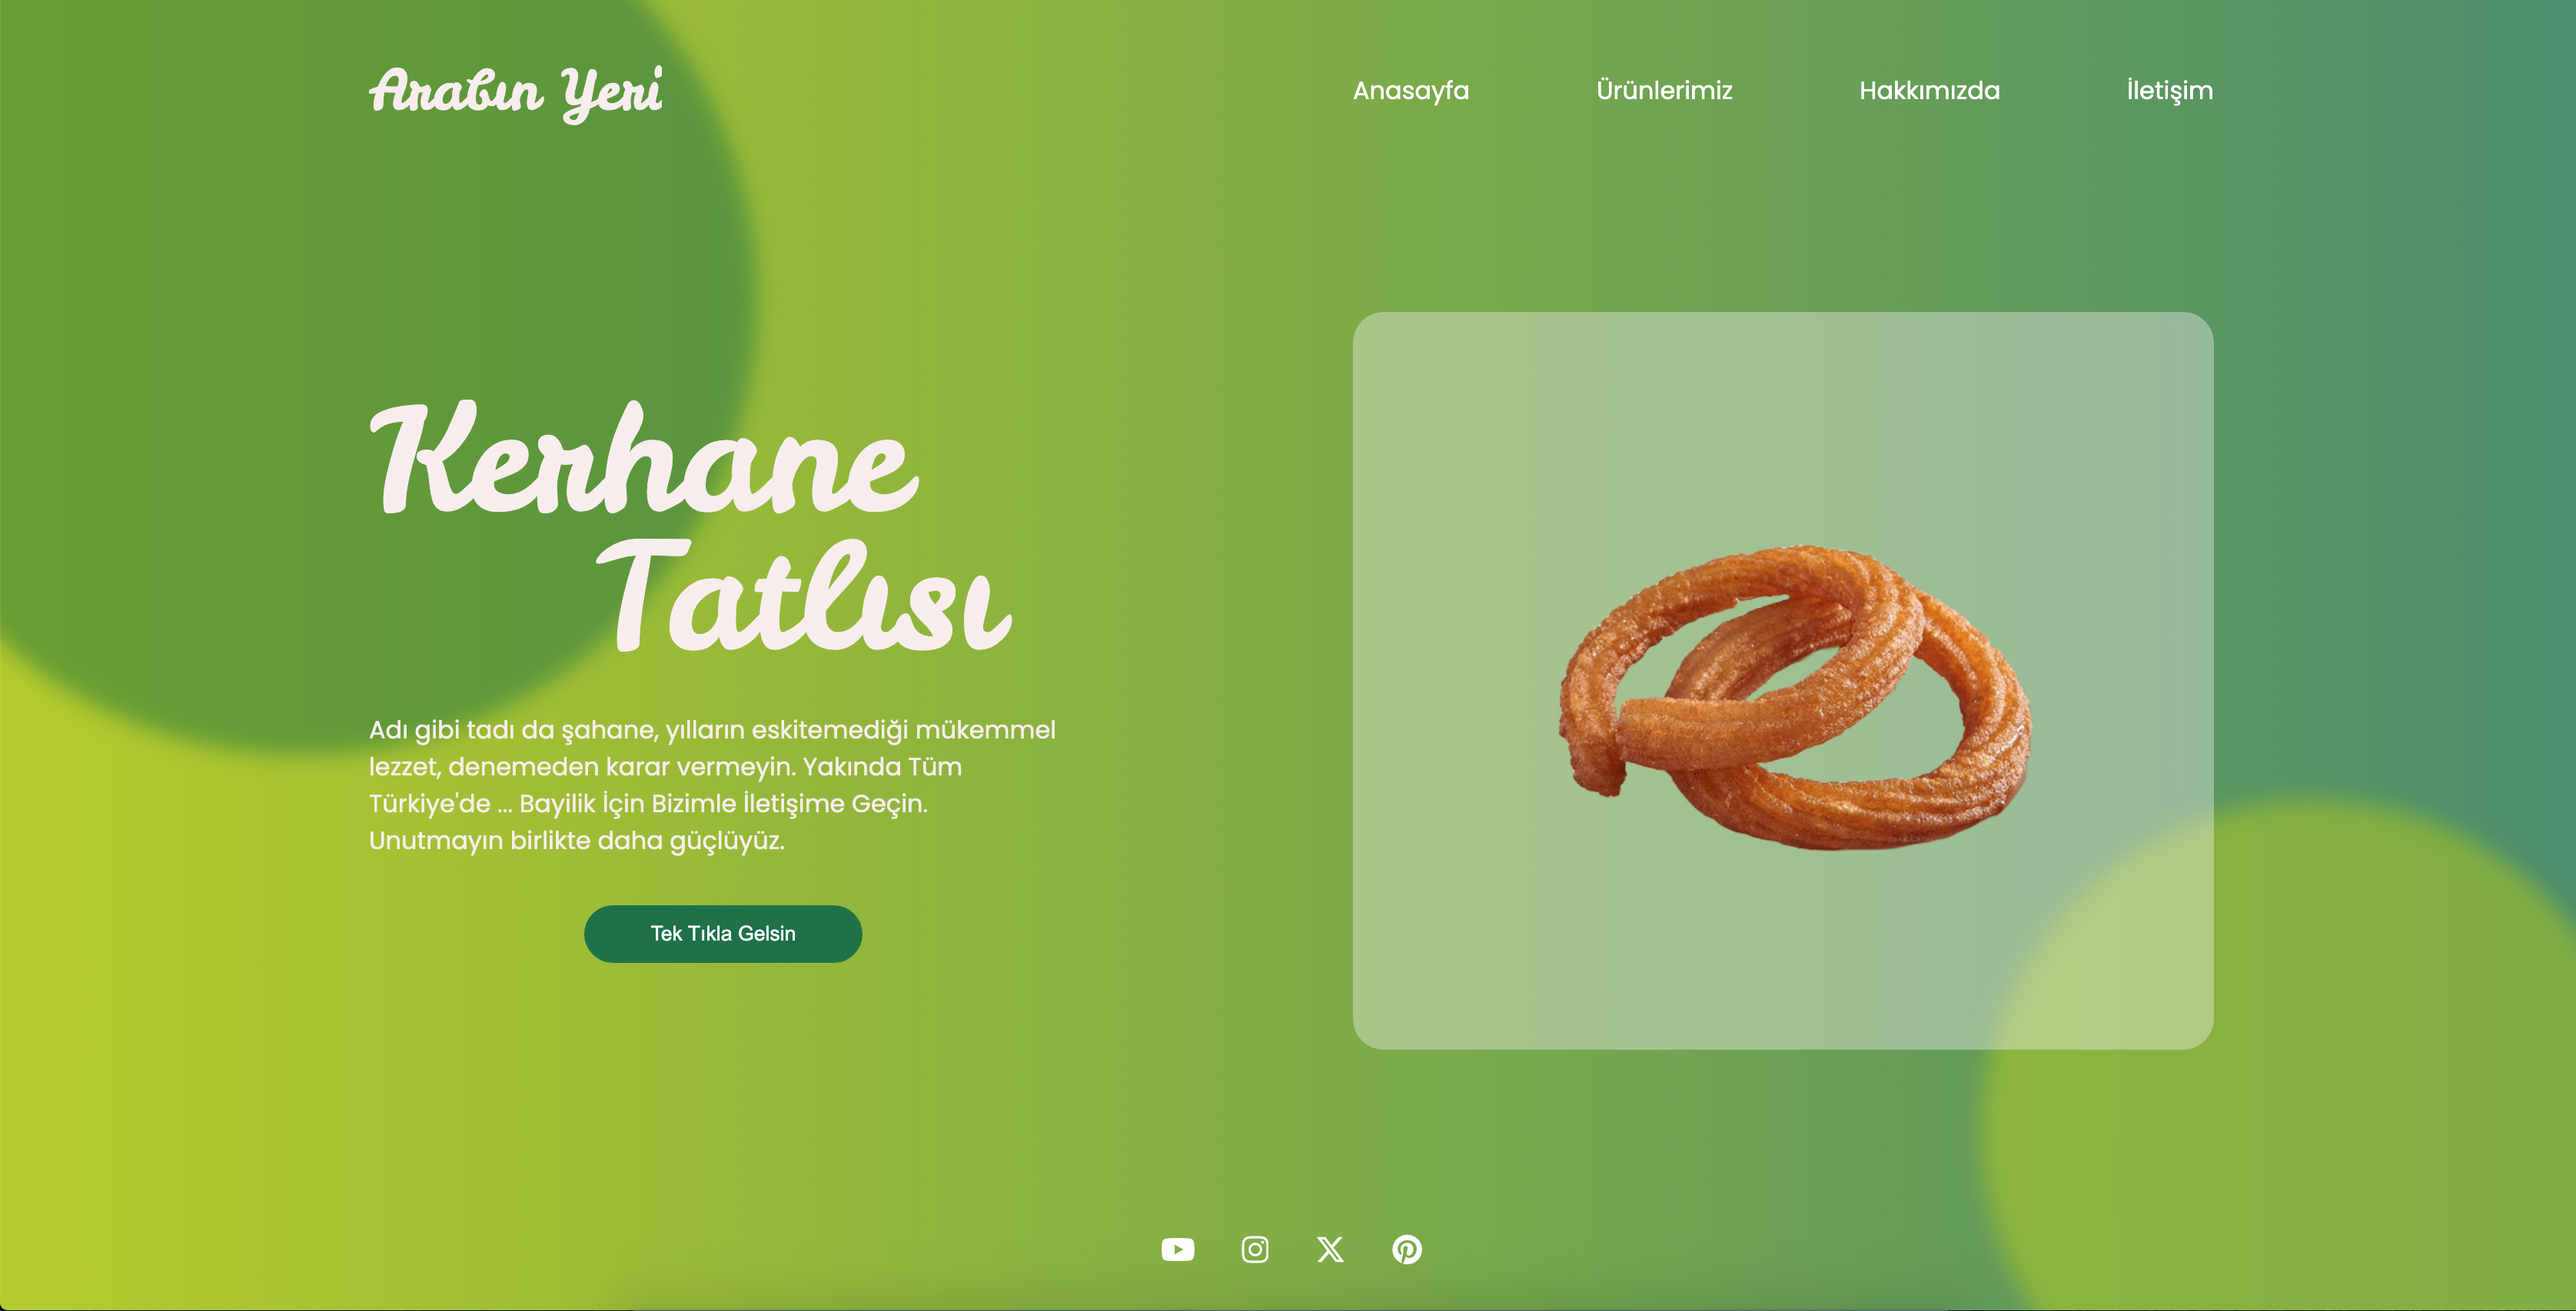
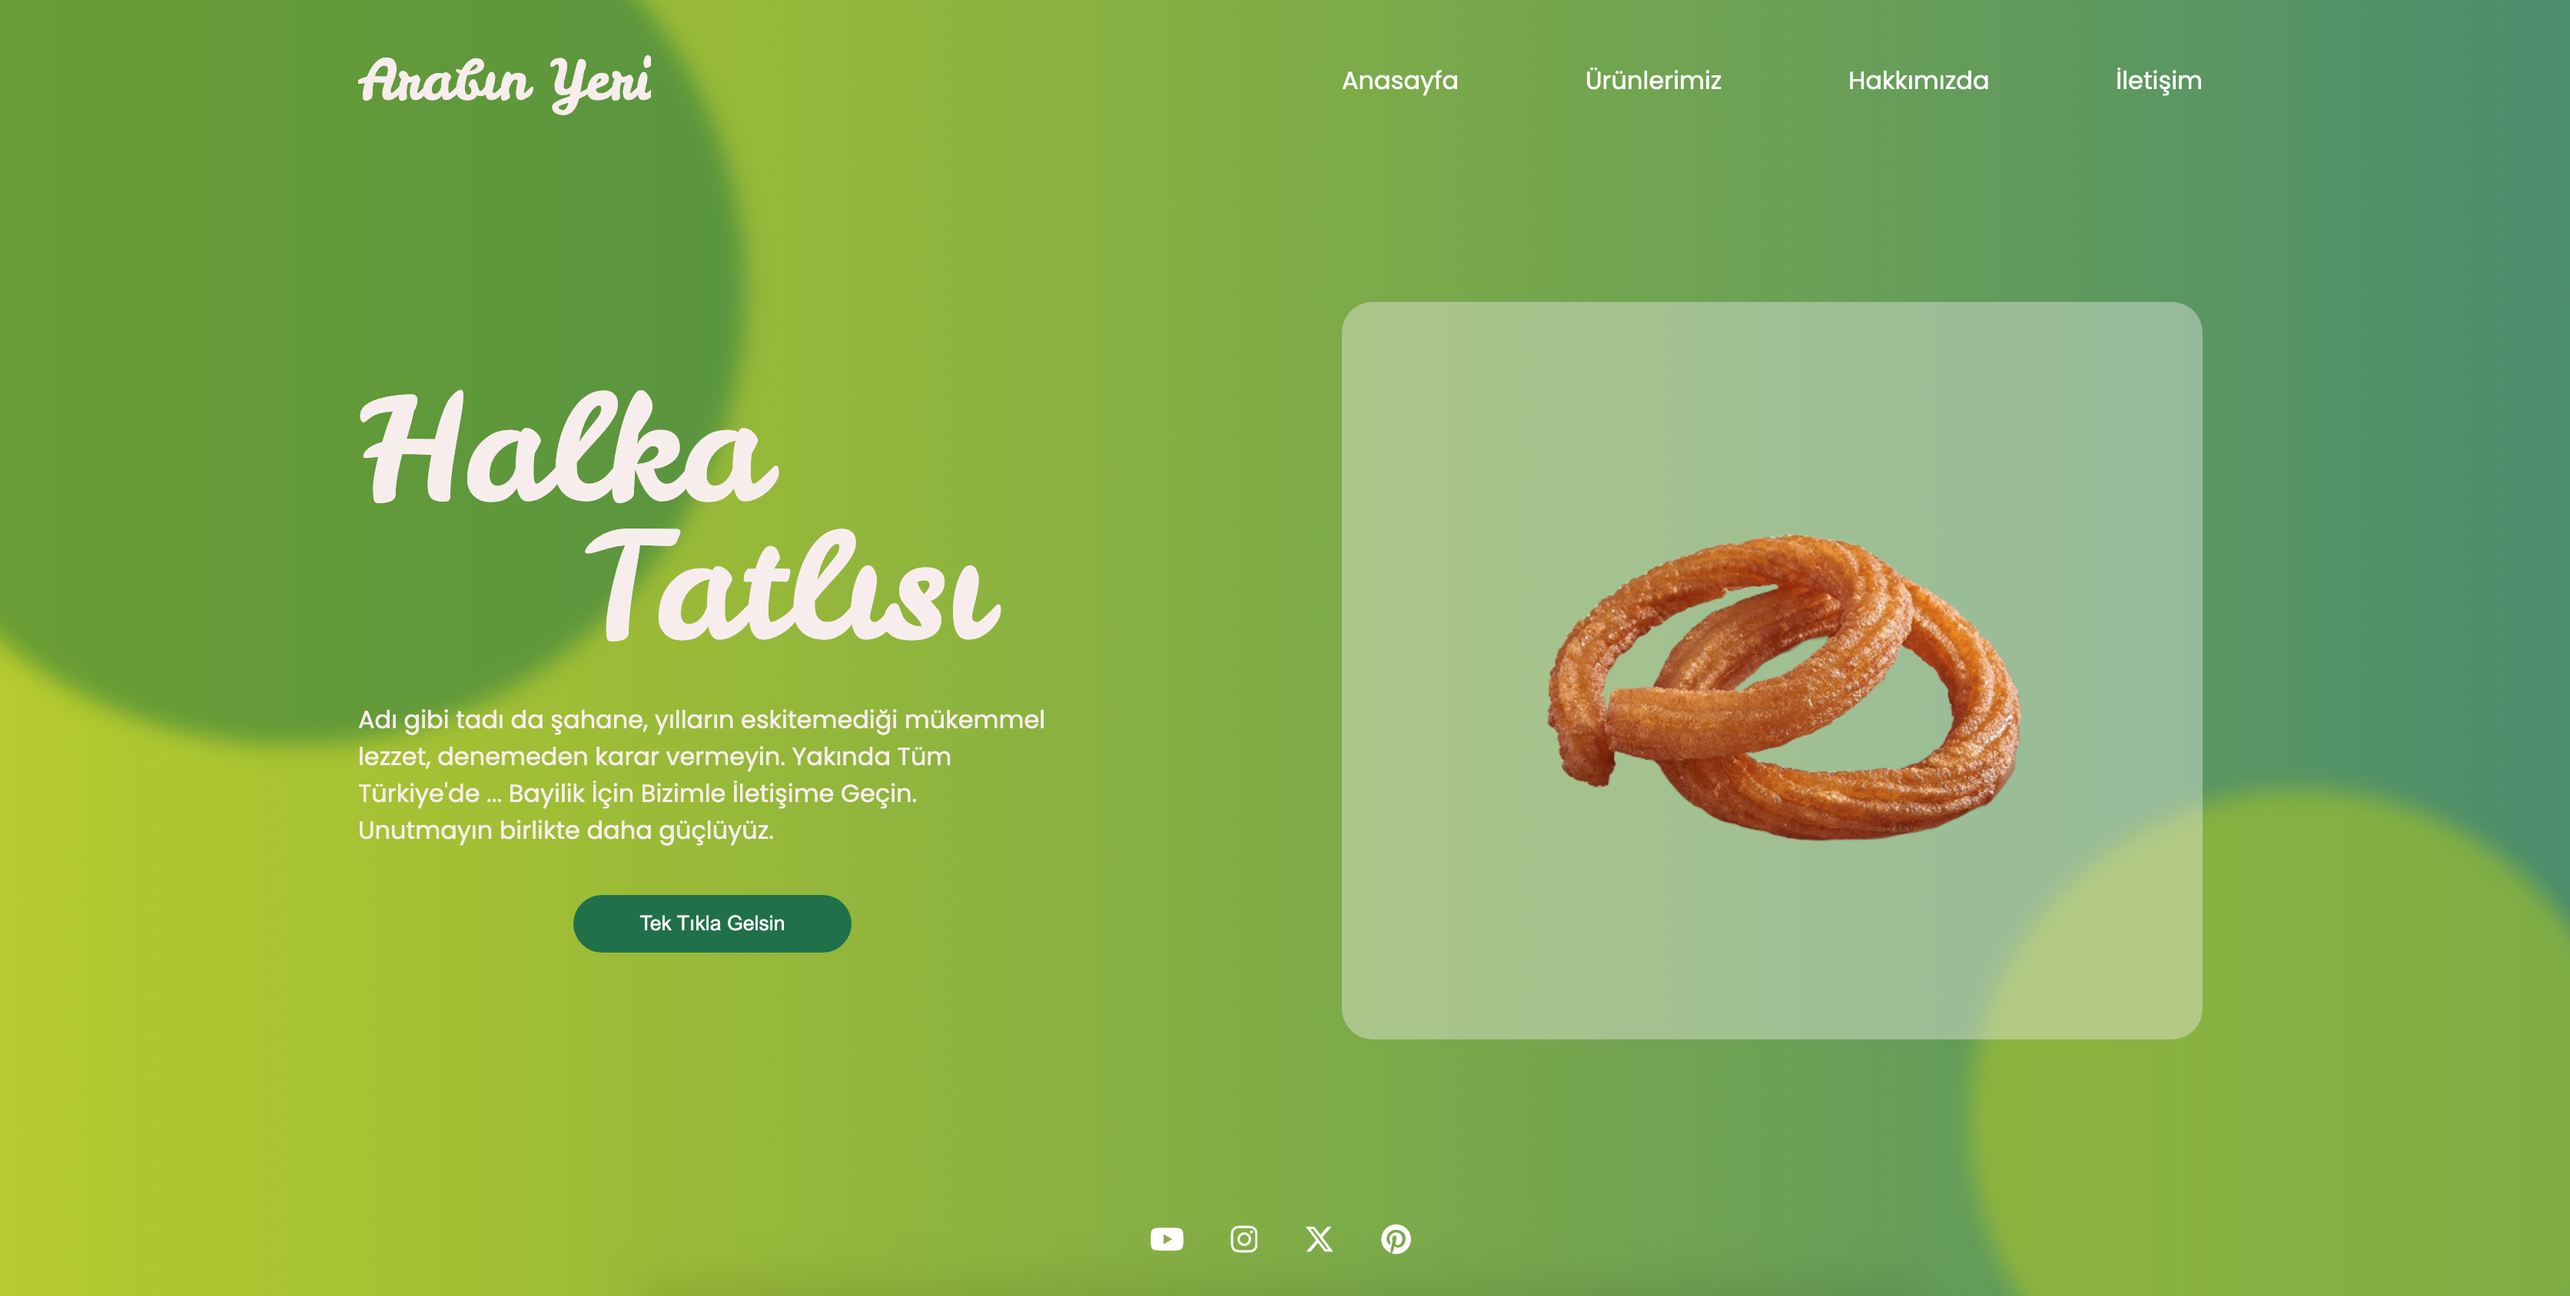
rename title

diff --git a/index.html b/index.html
@@ -32,13 +32,13 @@
 		</nav>
 		<main>
 			<section class="content-text">
-				<h1 class="first">Kerhane <br /><span>Tatlısı</span></h1>
+				<h1 class="first">Halka <br /><span>Tatlısı</span></h1>
 				<p>Adı gibi tadı da şahane, yılların eskitemediği mükemmel lezzet, denemeden karar vermeyin. Yakında Tüm Türkiye'de ... Bayilik İçin Bizimle İletişime Geçin. Unutmayın birlikte daha güçlüyüz.</p>
 				<button>Tek Tıkla Gelsin</button>
 			</section>
 			<section class="content-image">
 				<div class="box">
-					<img src="/tatli.png" alt="Kerhane Tatlısı" />
+					<img src="/tatli.png" alt="Halka Tatlısı" />
 				</div>
 			</section>
 		</main>

diff --git a/README.md b/README.md
@@ -1,3 +1,3 @@
 # Turkish Donut
 
-<img src="./screenshot/TurkishDonut.png" alt="drawing" width="1000"/>
+<img src="./screenshot/TurkishDonut.png" alt="drawing" width="500"/>
